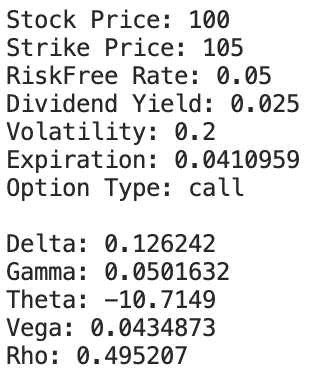
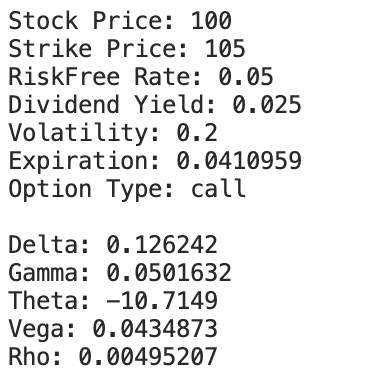
new

Changed region(s): [[0.0, 0.0293, 0.8929, 0.5559], [0.0, 0.6144, 0.6845, 0.9947]]

diff --git a/tree.cpp b/tree.cpp
@@ -162,8 +162,6 @@ int main()
     double dt = t / (double) nodes;
 
 
-    double option_price = PRICE(S,K,r,q,v,dt,nodes,optype);
-
     std::cout << "\nStock Price: " << S << std::endl;
     std::cout << "Strike Price: " << K << std::endl;
     std::cout << "RiskFree Rate: " << r << std::endl;
@@ -172,7 +170,10 @@ int main()
     std::cout << "Expiration: " << t << std::endl;
     std::cout << "Option Type: " << optype << std::endl;
 
+    double option_price = PRICE(S,K,r,q,v,dt,nodes,optype);
+
     std::cout << "Option Price: " << option_price << std::endl;
+    
     std::cout << std::endl;
 
     return 0;

diff --git a/greeks.cpp b/greeks.cpp
@@ -192,6 +192,7 @@ int main()
     // Calculate rho
     double dR = 0.01;
     rho = (PRICE(S, K, r+dR, q, v, t, nodes, optype) - PRICE(S, K, r-dR, q, v, t, nodes, optype))/(2.0*dR);
+    rho /= 100;
 
     std::cout << std::endl;
     std::cout << "Delta: " << delta << std::endl;

diff --git a/README.md b/README.md
@@ -27,14 +27,9 @@ g++ -o greeks greeks.cpp -std=c++11
 ### Trinomial Tree
 In the file labeled as ```tree.cpp```, generates a Trinomial Tree based on various inputs into the model and calculates the call or put option price. The tree simulates a stock price rising, staying the same, or falling in a set of steps. The payoff is then calculated at the last column. Finally the payoffs are multiplied by probabilites and discounted backwards until the option price is computed.
 
-![alt](https://github.com/mosharieff/OptionsCalculator/blob/main/images/tree.png)
-
 ### Implied Volatility Calculator
 In the file labeled as ```iv.cpp```, the Implied Volatility is computed from a given set of inputs including a sample option price. The Implied Volatility is then checked to see if it is correct by being inputted into the standard trinomial tree function.
-
-![alt](https://github.com/mosharieff/OptionsCalculator/blob/main/images/iv.png)
 
 ### Options Greeks
 In the file labeled as ```greeks.cpp```, the greeks for the option are calculated using the trinomial tree. The greeks include Delta, Gamma, Theta, Vega, & Rho. Each value is incremented by a percent or day or dollar and is calculated accordingly.
 
-![alt](https://github.com/mosharieff/OptionsCalculator/blob/main/images/greek.png)
